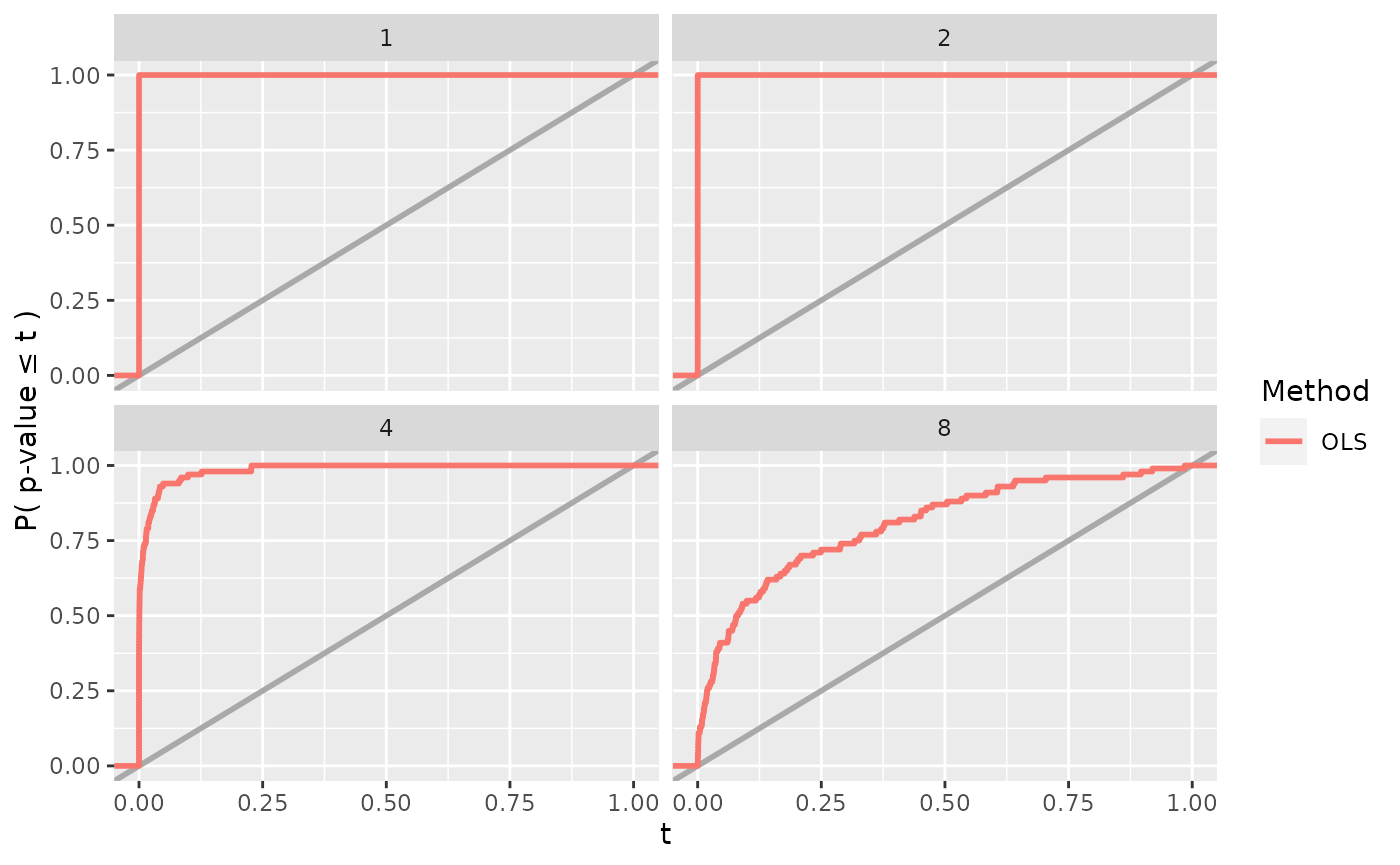
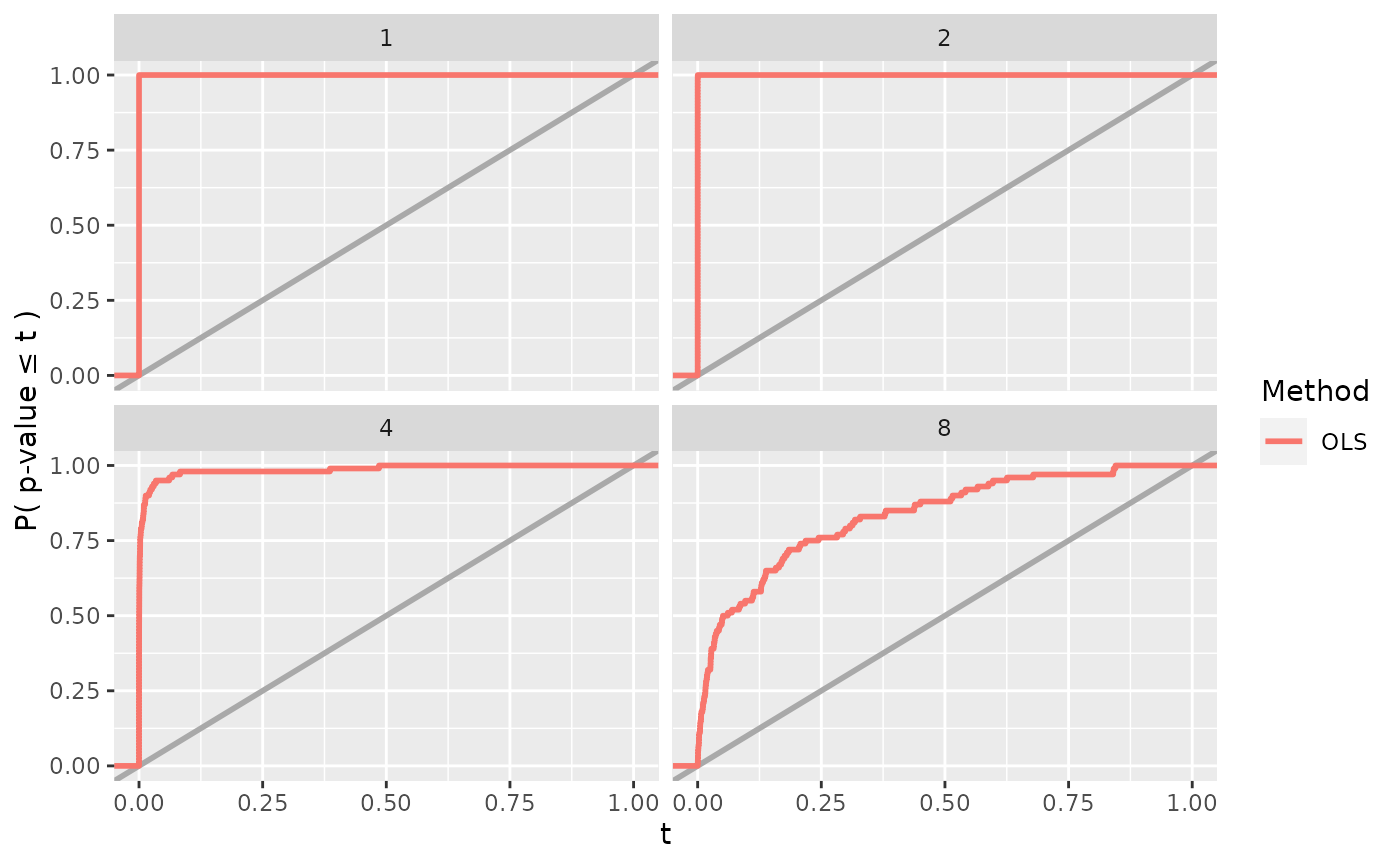
Built site for simChef: 0.0.1@537bca9

diff --git a/articles/simChef.html b/articles/simChef.html
@@ -269,20 +269,20 @@
 <div class="sourceCode" id="cb14"><pre class="downlit sourceCode r">
 <code class="sourceCode R"><span class="va">results</span> <span class="op">&lt;-</span> <span class="va">experiment</span><span class="op">$</span><span class="fu">run</span><span class="op">(</span>n_reps <span class="op">=</span> <span class="fl">100</span>, save <span class="op">=</span> <span class="cn">TRUE</span><span class="op">)</span>
 <span class="co">#&gt; Fitting Linear Regression Experiment...</span>
-<span class="co">#&gt; Fitting completed | time taken: 0.017954 minutes</span>
+<span class="co">#&gt; Fitting completed | time taken: 0.021840 minutes</span>
 <span class="co">#&gt; Saving fit results...</span>
-<span class="co">#&gt; Fit results saved | time taken: 0.019413 seconds</span>
+<span class="co">#&gt; Fit results saved | time taken: 0.020623 seconds</span>
 <span class="co">#&gt; ==============================</span>
 <span class="co">#&gt; Evaluating Linear Regression Experiment...</span>
 <span class="co">#&gt; `summarise()` has grouped output by 'dgp_name'. You can override using the `.groups` argument.</span>
-<span class="co">#&gt; Evaluation completed | time taken: 0.000197 minutes</span>
+<span class="co">#&gt; Evaluation completed | time taken: 0.000219 minutes</span>
 <span class="co">#&gt; Saving eval results...</span>
-<span class="co">#&gt; Eval results saved | time taken: 0.064952 seconds</span>
+<span class="co">#&gt; Eval results saved | time taken: 0.073522 seconds</span>
 <span class="co">#&gt; ==============================</span>
 <span class="co">#&gt; Visualizing Linear Regression Experiment...</span>
-<span class="co">#&gt; Visualization completed | time taken: 0.001664 minutes</span>
+<span class="co">#&gt; Visualization completed | time taken: 0.001792 minutes</span>
 <span class="co">#&gt; Saving visualize results...</span>
-<span class="co">#&gt; Visualize results saved | time taken: 0.066026 seconds</span>
+<span class="co">#&gt; Visualize results saved | time taken: 0.062260 seconds</span>
 <span class="co">#&gt; ==============================</span></code></pre></div>
 <p>or alternatively,</p>
 <div class="sourceCode" id="cb15"><pre class="downlit sourceCode r">
@@ -310,23 +310,23 @@
 <span class="co">#&gt; # A tibble: 100 × 5</span>
 <span class="co">#&gt;    rep   dgp_name            method_name `X1 p-value` `X2 p-value`</span>
 <span class="co">#&gt;    &lt;chr&gt; &lt;chr&gt;               &lt;chr&gt;              &lt;dbl&gt;        &lt;dbl&gt;</span>
-<span class="co">#&gt;  1 1     Linear Gaussian DGP OLS             4.60e-28       0.227 </span>
-<span class="co">#&gt;  2 2     Linear Gaussian DGP OLS             7.54e-26       0.601 </span>
-<span class="co">#&gt;  3 3     Linear Gaussian DGP OLS             2.35e-23       0.241 </span>
-<span class="co">#&gt;  4 4     Linear Gaussian DGP OLS             3.34e-26       0.617 </span>
-<span class="co">#&gt;  5 5     Linear Gaussian DGP OLS             3.74e-25       0.432 </span>
-<span class="co">#&gt;  6 6     Linear Gaussian DGP OLS             1.14e-27       0.109 </span>
-<span class="co">#&gt;  7 7     Linear Gaussian DGP OLS             3.67e-30       0.257 </span>
-<span class="co">#&gt;  8 8     Linear Gaussian DGP OLS             3.56e-27       0.0398</span>
-<span class="co">#&gt;  9 9     Linear Gaussian DGP OLS             3.10e-36       0.285 </span>
-<span class="co">#&gt; 10 10    Linear Gaussian DGP OLS             6.02e-33       0.667 </span>
+<span class="co">#&gt;  1 1     Linear Gaussian DGP OLS             9.64e-26        0.954</span>
+<span class="co">#&gt;  2 2     Linear Gaussian DGP OLS             1.95e-28        0.797</span>
+<span class="co">#&gt;  3 3     Linear Gaussian DGP OLS             5.70e-36        0.932</span>
+<span class="co">#&gt;  4 4     Linear Gaussian DGP OLS             6.54e-34        0.818</span>
+<span class="co">#&gt;  5 5     Linear Gaussian DGP OLS             6.58e-28        0.127</span>
+<span class="co">#&gt;  6 6     Linear Gaussian DGP OLS             1.01e-29        0.645</span>
+<span class="co">#&gt;  7 7     Linear Gaussian DGP OLS             3.24e-40        0.439</span>
+<span class="co">#&gt;  8 8     Linear Gaussian DGP OLS             8.62e-26        0.455</span>
+<span class="co">#&gt;  9 9     Linear Gaussian DGP OLS             1.97e-36        0.609</span>
+<span class="co">#&gt; 10 10    Linear Gaussian DGP OLS             2.21e-42        0.887</span>
 <span class="co">#&gt; # … with 90 more rows</span>
 <span class="va">results</span><span class="op">$</span><span class="va">eval_results</span>
 <span class="co">#&gt; $`Rejection Prob. (alpha = 0.1)`</span>
 <span class="co">#&gt; # A tibble: 1 × 4</span>
 <span class="co">#&gt;   dgp_name            method_name `X1 Reject Prob.` `X2 Reject Prob.`</span>
 <span class="co">#&gt;   &lt;chr&gt;               &lt;chr&gt;                   &lt;dbl&gt;             &lt;dbl&gt;</span>
-<span class="co">#&gt; 1 Linear Gaussian DGP OLS                         1               0.1</span>
+<span class="co">#&gt; 1 Linear Gaussian DGP OLS                         1              0.06</span>
 <span class="va">results</span><span class="op">$</span><span class="va">visualize_results</span>
 <span class="co">#&gt; $Power</span></code></pre></div>
 <p><img src="simChef_files/figure-html/unnamed-chunk-17-1.png" width="700"></p>
@@ -374,26 +374,26 @@
 <div class="sourceCode" id="cb21"><pre class="downlit sourceCode r">
 <code class="sourceCode R"><span class="va">vary_results</span> <span class="op">&lt;-</span> <span class="va">experiment</span><span class="op">$</span><span class="fu">run</span><span class="op">(</span>n_reps <span class="op">=</span> <span class="fl">100</span>, save <span class="op">=</span> <span class="cn">TRUE</span><span class="op">)</span>
 <span class="co">#&gt; Fitting Linear Regression Experiment...</span>
-<span class="co">#&gt; Fitting completed | time taken: 0.048646 minutes</span>
+<span class="co">#&gt; Fitting completed | time taken: 0.060994 minutes</span>
 <span class="co">#&gt; Saving fit results...</span>
-<span class="co">#&gt; Fit results saved | time taken: 0.034653 seconds</span>
+<span class="co">#&gt; Fit results saved | time taken: 0.035077 seconds</span>
 <span class="co">#&gt; ==============================</span>
 <span class="co">#&gt; Evaluating Linear Regression Experiment...</span>
-<span class="co">#&gt; Evaluation completed | time taken: 0.000234 minutes</span>
+<span class="co">#&gt; Evaluation completed | time taken: 0.000293 minutes</span>
 <span class="co">#&gt; Saving eval results...</span>
-<span class="co">#&gt; Eval results saved | time taken: 0.038291 seconds</span>
+<span class="co">#&gt; Eval results saved | time taken: 0.037529 seconds</span>
 <span class="co">#&gt; ==============================</span>
 <span class="co">#&gt; Visualizing Linear Regression Experiment...</span>
-<span class="co">#&gt; Visualization completed | time taken: 0.000205 minutes</span>
+<span class="co">#&gt; Visualization completed | time taken: 0.000264 minutes</span>
 <span class="co">#&gt; Saving visualize results...</span>
-<span class="co">#&gt; Visualize results saved | time taken: 0.092002 seconds</span>
+<span class="co">#&gt; Visualize results saved | time taken: 0.092716 seconds</span>
 <span class="co">#&gt; ==============================</span>
 <span class="va">vary_results</span><span class="op">$</span><span class="va">eval_results</span>
 <span class="co">#&gt; $`Rejection Prob. (alpha = 0.1)`</span>
 <span class="co">#&gt; # A tibble: 1 × 4</span>
 <span class="co">#&gt;   dgp_name            method_name `X1 Reject Prob.` `X2 Reject Prob.`</span>
 <span class="co">#&gt;   &lt;chr&gt;               &lt;chr&gt;                   &lt;dbl&gt;             &lt;dbl&gt;</span>
-<span class="co">#&gt; 1 Linear Gaussian DGP OLS                     0.875            0.0875</span>
+<span class="co">#&gt; 1 Linear Gaussian DGP OLS                     0.885             0.128</span>
 <span class="va">vary_results</span><span class="op">$</span><span class="va">visualize_results</span>
 <span class="co">#&gt; $Power</span></code></pre></div>
 <p><img src="simChef_files/figure-html/unnamed-chunk-22-1.png" width="700"></p>
@@ -446,28 +446,28 @@
   <span class="fu"><a href="../reference/update_funs.html">update_visualizer</a></span><span class="op">(</span><span class="va">power_plot</span>, name <span class="op">=</span> <span class="st">"Power"</span><span class="op">)</span> <span class="op">%&gt;%</span>
   <span class="fu"><a href="../reference/run_experiment.html">run_experiment</a></span><span class="op">(</span>n_reps <span class="op">=</span> <span class="fl">100</span>, save <span class="op">=</span> <span class="cn">TRUE</span><span class="op">)</span>
 <span class="co">#&gt; Fitting Linear Regression Experiment...</span>
-<span class="co">#&gt; Fitting completed | time taken: 0.048574 minutes</span>
+<span class="co">#&gt; Fitting completed | time taken: 0.060585 minutes</span>
 <span class="co">#&gt; Saving fit results...</span>
-<span class="co">#&gt; Fit results saved | time taken: 0.046346 seconds</span>
+<span class="co">#&gt; Fit results saved | time taken: 0.045527 seconds</span>
 <span class="co">#&gt; ==============================</span>
 <span class="co">#&gt; Evaluating Linear Regression Experiment...</span>
-<span class="co">#&gt; Evaluation completed | time taken: 0.000153 minutes</span>
+<span class="co">#&gt; Evaluation completed | time taken: 0.000208 minutes</span>
 <span class="co">#&gt; Saving eval results...</span>
-<span class="co">#&gt; Eval results saved | time taken: 0.046422 seconds</span>
+<span class="co">#&gt; Eval results saved | time taken: 0.046462 seconds</span>
 <span class="co">#&gt; ==============================</span>
 <span class="co">#&gt; Visualizing Linear Regression Experiment...</span>
-<span class="co">#&gt; Visualization completed | time taken: 0.000362 minutes</span>
+<span class="co">#&gt; Visualization completed | time taken: 0.000445 minutes</span>
 <span class="co">#&gt; Saving visualize results...</span>
-<span class="co">#&gt; Visualize results saved | time taken: 0.097119 seconds</span>
+<span class="co">#&gt; Visualize results saved | time taken: 0.100037 seconds</span>
 <span class="co">#&gt; ==============================</span>
 <span class="va">vary_results</span><span class="op">$</span><span class="va">eval_results</span>
 <span class="co">#&gt; $`Rejection Prob. (alpha = 0.1)`</span>
 <span class="co">#&gt; # A tibble: 4 × 5</span>
 <span class="co">#&gt;   dgp_name            method_name sigma `X1 Reject Prob.` `X2 Reject Prob.`</span>
 <span class="co">#&gt;   &lt;chr&gt;               &lt;chr&gt;       &lt;dbl&gt;             &lt;dbl&gt;             &lt;dbl&gt;</span>
-<span class="co">#&gt; 1 Linear Gaussian DGP OLS             1              1                 0.08</span>
-<span class="co">#&gt; 2 Linear Gaussian DGP OLS             2              1                 0.06</span>
-<span class="co">#&gt; 3 Linear Gaussian DGP OLS             4              0.97              0.09</span>
+<span class="co">#&gt; 1 Linear Gaussian DGP OLS             1              1                 0.15</span>
+<span class="co">#&gt; 2 Linear Gaussian DGP OLS             2              1                 0.11</span>
+<span class="co">#&gt; 3 Linear Gaussian DGP OLS             4              0.98              0.17</span>
 <span class="co">#&gt; 4 Linear Gaussian DGP OLS             8              0.55              0.09</span>
 <span class="va">vary_results</span><span class="op">$</span><span class="va">visualize_results</span>
 <span class="co">#&gt; $Power</span></code></pre></div>
@@ -519,19 +519,19 @@
                               <span class="fu"><a href="https://rdrr.io/r/base/c.html">c</a></span><span class="op">(</span><span class="fl">1</span>, <span class="fl">2</span><span class="op">)</span><span class="op">)</span><span class="op">)</span> <span class="op">%&gt;%</span>
   <span class="fu"><a href="../reference/run_experiment.html">run_experiment</a></span><span class="op">(</span>n_reps <span class="op">=</span> <span class="fl">100</span>, save <span class="op">=</span> <span class="cn">TRUE</span><span class="op">)</span>
 <span class="co">#&gt; Fitting Linear Regression Experiment...</span>
-<span class="co">#&gt; Fitting completed | time taken: 0.107101 minutes</span>
+<span class="co">#&gt; Fitting completed | time taken: 0.136148 minutes</span>
 <span class="co">#&gt; Saving fit results...</span>
-<span class="co">#&gt; Fit results saved | time taken: 0.041329 seconds</span>
+<span class="co">#&gt; Fit results saved | time taken: 0.041747 seconds</span>
 <span class="co">#&gt; ==============================</span>
 <span class="co">#&gt; Evaluating Linear Regression Experiment...</span>
-<span class="co">#&gt; Evaluation completed | time taken: 0.000248 minutes</span>
+<span class="co">#&gt; Evaluation completed | time taken: 0.000313 minutes</span>
 <span class="co">#&gt; Saving eval results...</span>
-<span class="co">#&gt; Eval results saved | time taken: 0.053260 seconds</span>
+<span class="co">#&gt; Eval results saved | time taken: 0.044642 seconds</span>
 <span class="co">#&gt; ==============================</span>
 <span class="co">#&gt; Visualizing Linear Regression Experiment...</span>
-<span class="co">#&gt; Visualization completed | time taken: 0.002465 minutes</span>
+<span class="co">#&gt; Visualization completed | time taken: 0.002928 minutes</span>
 <span class="co">#&gt; Saving visualize results...</span>
-<span class="co">#&gt; Visualize results saved | time taken: 0.142864 seconds</span>
+<span class="co">#&gt; Visualize results saved | time taken: 0.138968 seconds</span>
 <span class="co">#&gt; ==============================</span>
 <span class="co"># run experiment across values of rho (correlation)</span>
 <span class="va">vary_cor_results</span> <span class="op">&lt;-</span> <span class="va">experiment</span> <span class="op">%&gt;%</span>
@@ -540,19 +540,19 @@
                   rho <span class="op">=</span> <span class="fu"><a href="https://rdrr.io/r/base/c.html">c</a></span><span class="op">(</span><span class="fl">0</span>, <span class="fl">0.2</span>, <span class="fl">0.5</span>, <span class="fl">0.9</span><span class="op">)</span><span class="op">)</span> <span class="op">%&gt;%</span>
   <span class="fu"><a href="../reference/run_experiment.html">run_experiment</a></span><span class="op">(</span>n_reps <span class="op">=</span> <span class="fl">100</span>, save <span class="op">=</span> <span class="cn">TRUE</span><span class="op">)</span>
 <span class="co">#&gt; Fitting Linear Regression Experiment...</span>
-<span class="co">#&gt; Fitting completed | time taken: 0.047497 minutes</span>
+<span class="co">#&gt; Fitting completed | time taken: 0.058385 minutes</span>
 <span class="co">#&gt; Saving fit results...</span>
-<span class="co">#&gt; Fit results saved | time taken: 0.041889 seconds</span>
+<span class="co">#&gt; Fit results saved | time taken: 0.045079 seconds</span>
 <span class="co">#&gt; ==============================</span>
 <span class="co">#&gt; Evaluating Linear Regression Experiment...</span>
-<span class="co">#&gt; Evaluation completed | time taken: 0.000508 minutes</span>
+<span class="co">#&gt; Evaluation completed | time taken: 0.000541 minutes</span>
 <span class="co">#&gt; Saving eval results...</span>
-<span class="co">#&gt; Eval results saved | time taken: 0.046776 seconds</span>
+<span class="co">#&gt; Eval results saved | time taken: 0.046974 seconds</span>
 <span class="co">#&gt; ==============================</span>
 <span class="co">#&gt; Visualizing Linear Regression Experiment...</span>
-<span class="co">#&gt; Visualization completed | time taken: 0.001470 minutes</span>
+<span class="co">#&gt; Visualization completed | time taken: 0.001826 minutes</span>
 <span class="co">#&gt; Saving visualize results...</span>
-<span class="co">#&gt; Visualize results saved | time taken: 0.145722 seconds</span>
+<span class="co">#&gt; Visualize results saved | time taken: 0.138071 seconds</span>
 <span class="co">#&gt; ==============================</span></code></pre></div>
 </div>
 <div id="experiment-as-an-r6-class" class="section level2">
@@ -705,15 +705,15 @@
 <div class="sourceCode" id="cb36"><pre class="downlit sourceCode r">
 <code class="sourceCode R"><span class="va">fit_results</span> <span class="op">&lt;-</span> <span class="va">experiment</span><span class="op">$</span><span class="fu">fit</span><span class="op">(</span>n_reps <span class="op">=</span> <span class="fl">100</span><span class="op">)</span>
 <span class="co">#&gt; Fitting Linear Regression Experiment...</span>
-<span class="co">#&gt; Fitting completed | time taken: 0.055028 minutes</span>
+<span class="co">#&gt; Fitting completed | time taken: 0.063444 minutes</span>
 <span class="co">#&gt; ==============================</span>
 <span class="va">eval_results</span> <span class="op">&lt;-</span> <span class="va">experiment</span><span class="op">$</span><span class="fu">evaluate</span><span class="op">(</span><span class="va">fit_results</span><span class="op">)</span>
 <span class="co">#&gt; Evaluating Linear Regression Experiment...</span>
-<span class="co">#&gt; Evaluation completed | time taken: 0.000159 minutes</span>
+<span class="co">#&gt; Evaluation completed | time taken: 0.000195 minutes</span>
 <span class="co">#&gt; ==============================</span>
 <span class="va">visualize_results</span> <span class="op">&lt;-</span> <span class="va">experiment</span><span class="op">$</span><span class="fu">visualize</span><span class="op">(</span><span class="va">fit_results</span>, <span class="va">eval_results</span><span class="op">)</span>
 <span class="co">#&gt; Visualizing Linear Regression Experiment...</span>
-<span class="co">#&gt; Visualization completed | time taken: 0.001670 minutes</span>
+<span class="co">#&gt; Visualization completed | time taken: 0.001837 minutes</span>
 <span class="co">#&gt; ==============================</span></code></pre></div>
 <p>or alternatively,</p>
 <div class="sourceCode" id="cb37"><pre class="downlit sourceCode r">
@@ -730,38 +730,38 @@
 <span class="co">#&gt;  $ Linear Gaussian DGP:List of 4</span>
 <span class="co">#&gt;   ..$ :List of 1</span>
 <span class="co">#&gt;   .. ..$ :List of 2</span>
-<span class="co">#&gt;   .. .. ..$ X: num [1:200, 1:2] 2.21 -1.81 -1.05 0.58 1.71 ...</span>
+<span class="co">#&gt;   .. .. ..$ X: num [1:200, 1:2] 0.54 -1.168 0.373 0.954 -0.186 ...</span>
 <span class="co">#&gt;   .. .. .. ..- attr(*, "dimnames")=List of 2</span>
 <span class="co">#&gt;   .. .. .. .. ..$ : NULL</span>
 <span class="co">#&gt;   .. .. .. .. ..$ : NULL</span>
-<span class="co">#&gt;   .. .. ..$ y: num [1:200, 1] 3.042 -1.707 0.114 2.475 1.318 ...</span>
+<span class="co">#&gt;   .. .. ..$ y: num [1:200, 1] 1.001 -3.532 -0.635 0.742 -1.058 ...</span>
 <span class="co">#&gt;   .. ..- attr(*, "params")=List of 1</span>
 <span class="co">#&gt;   .. .. ..$ sigma: num 1</span>
 <span class="co">#&gt;   ..$ :List of 1</span>
 <span class="co">#&gt;   .. ..$ :List of 2</span>
-<span class="co">#&gt;   .. .. ..$ X: num [1:200, 1:2] -0.318 0.345 0.252 -0.671 0.455 ...</span>
+<span class="co">#&gt;   .. .. ..$ X: num [1:200, 1:2] -0.353 0.399 1.617 1.517 -0.684 ...</span>
 <span class="co">#&gt;   .. .. .. ..- attr(*, "dimnames")=List of 2</span>
 <span class="co">#&gt;   .. .. .. .. ..$ : NULL</span>
 <span class="co">#&gt;   .. .. .. .. ..$ : NULL</span>
-<span class="co">#&gt;   .. .. ..$ y: num [1:200, 1] 0.095 -3.902 0.596 1.81 2.343 ...</span>
+<span class="co">#&gt;   .. .. ..$ y: num [1:200, 1] 0.425 -2.331 -0.599 2.082 -1.535 ...</span>
 <span class="co">#&gt;   .. ..- attr(*, "params")=List of 1</span>
 <span class="co">#&gt;   .. .. ..$ sigma: num 2</span>
 <span class="co">#&gt;   ..$ :List of 1</span>
 <span class="co">#&gt;   .. ..$ :List of 2</span>
-<span class="co">#&gt;   .. .. ..$ X: num [1:200, 1:2] -0.199 2.437 0.776 -1.837 -1.272 ...</span>
+<span class="co">#&gt;   .. .. ..$ X: num [1:200, 1:2] -0.9661 0.3671 0.0903 -0.7011 -1.5366 ...</span>
 <span class="co">#&gt;   .. .. .. ..- attr(*, "dimnames")=List of 2</span>
 <span class="co">#&gt;   .. .. .. .. ..$ : NULL</span>
 <span class="co">#&gt;   .. .. .. .. ..$ : NULL</span>
-<span class="co">#&gt;   .. .. ..$ y: num [1:200, 1] 0.479 -1.442 -3.63 3.225 -7.416 ...</span>
+<span class="co">#&gt;   .. .. ..$ y: num [1:200, 1] -0.0969 2.1341 -7.4059 -5.9283 -5.7388 ...</span>
 <span class="co">#&gt;   .. ..- attr(*, "params")=List of 1</span>
 <span class="co">#&gt;   .. .. ..$ sigma: num 4</span>
 <span class="co">#&gt;   ..$ :List of 1</span>
 <span class="co">#&gt;   .. ..$ :List of 2</span>
-<span class="co">#&gt;   .. .. ..$ X: num [1:200, 1:2] -0.2176 1.9294 -0.7907 0.0843 0.1393 ...</span>
+<span class="co">#&gt;   .. .. ..$ X: num [1:200, 1:2] 1.03504 0.9396 -0.00762 1.11949 0.53766 ...</span>
 <span class="co">#&gt;   .. .. .. ..- attr(*, "dimnames")=List of 2</span>
 <span class="co">#&gt;   .. .. .. .. ..$ : NULL</span>
 <span class="co">#&gt;   .. .. .. .. ..$ : NULL</span>
-<span class="co">#&gt;   .. .. ..$ y: num [1:200, 1] -4.3 12.18 -3.92 4.33 -1.46 ...</span>
+<span class="co">#&gt;   .. .. ..$ y: num [1:200, 1] -2.6 -15.38 6.74 -1.83 -15.14 ...</span>
 <span class="co">#&gt;   .. ..- attr(*, "params")=List of 1</span>
 <span class="co">#&gt;   .. .. ..$ sigma: num 8</span></code></pre></div>
 <p>or alternatively,</p>

diff --git a/index.html b/index.html
@@ -176,7 +176,7 @@ Allow for varying simulation experiments across arbitrary parameters of DGPs and
 <input type="checkbox" disabled checked>
 Give user the ability to choose which tasks are distributed to parallel workers, i.e. simulation replicates, DGPs, Methods, or combinations of the three.</li>
 <li>
-<input type="checkbox" disabled>
+<input type="checkbox" disabled checked>
 Cache results to avoid re-running already computed components of an Experiment.</li>
 <li>
 <input type="checkbox" disabled>

diff --git a/articles/parallel.html b/articles/parallel.html
@@ -235,7 +235,7 @@
   <span class="op">)</span>
 <span class="op">)</span>
 <span class="co">#&gt; Fitting base...</span>
-<span class="co">#&gt; Fitting completed | time taken: 0.888239 minutes</span>
+<span class="co">#&gt; Fitting completed | time taken: 0.806381 minutes</span>
 <span class="co">#&gt; ==============================</span>
 <span class="co">#&gt; # A tibble: 136 × 16</span>
 <span class="co">#&gt;    rep   dgp_name   method_name     p   rho sparsity nonzero_coeff alpha term   </span>
